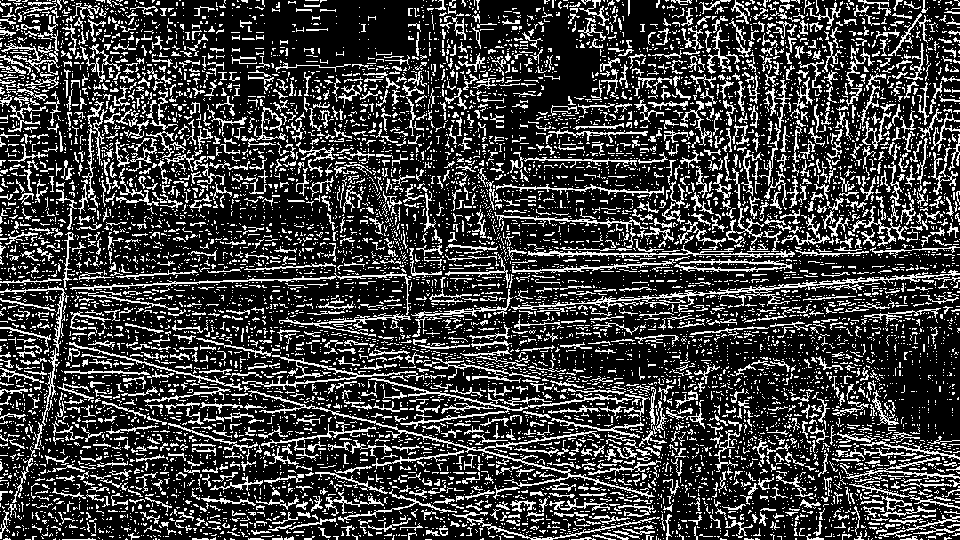
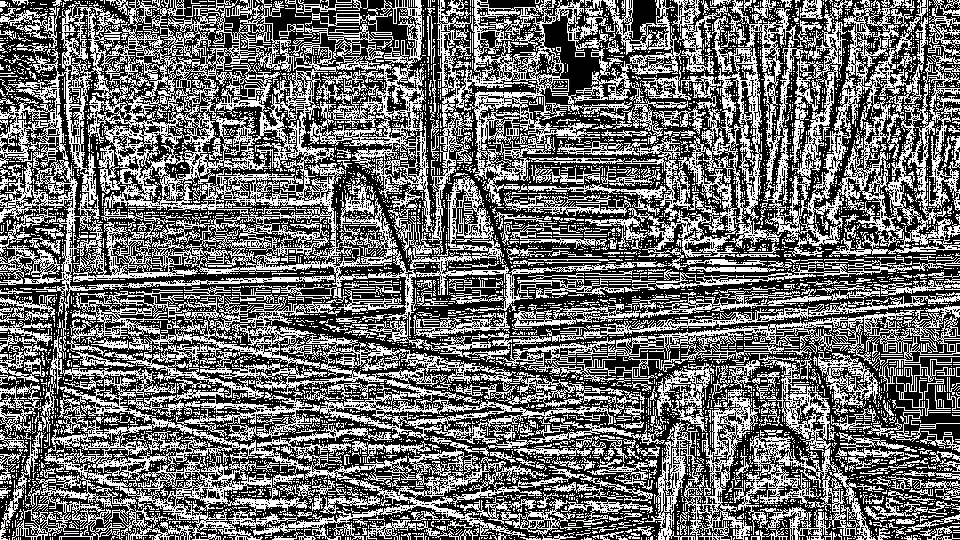
Border detection updated

diff --git a/1-Activitie/A/src/A_5.py b/1-Activitie/A/src/A_5.py
@@ -4,9 +4,9 @@ import numpy as np
 import imageio.v2 as iio
 import matplotlib.pyplot as plt
 
-BORDER_THRESHOLD = 45
-N_BORDER_SEARCH = 2
-M_BORDER_SEARCH = 2
+BORDER_THRESHOLD = 26
+N_BORDER_SEARCH = 1
+M_BORDER_SEARCH = 1
 
 def borderDetector(image_array):
     n_rows = np.uint16(image_array.shape[0]) # Number of rows of the image
@@ -31,7 +31,7 @@ def borderDetector(image_array):
         print(str(np.uint8(i/n_rows*100))+'% completed')
     return image_borders
 
-image_blur = iio.imread('A/img/image_GS_1_equalized.jpg')
+image_blur = iio.imread('A/img/image_GS_1_blur.jpg')
 
 print("IMG Tensor size: "+str(image_blur.shape))
 
